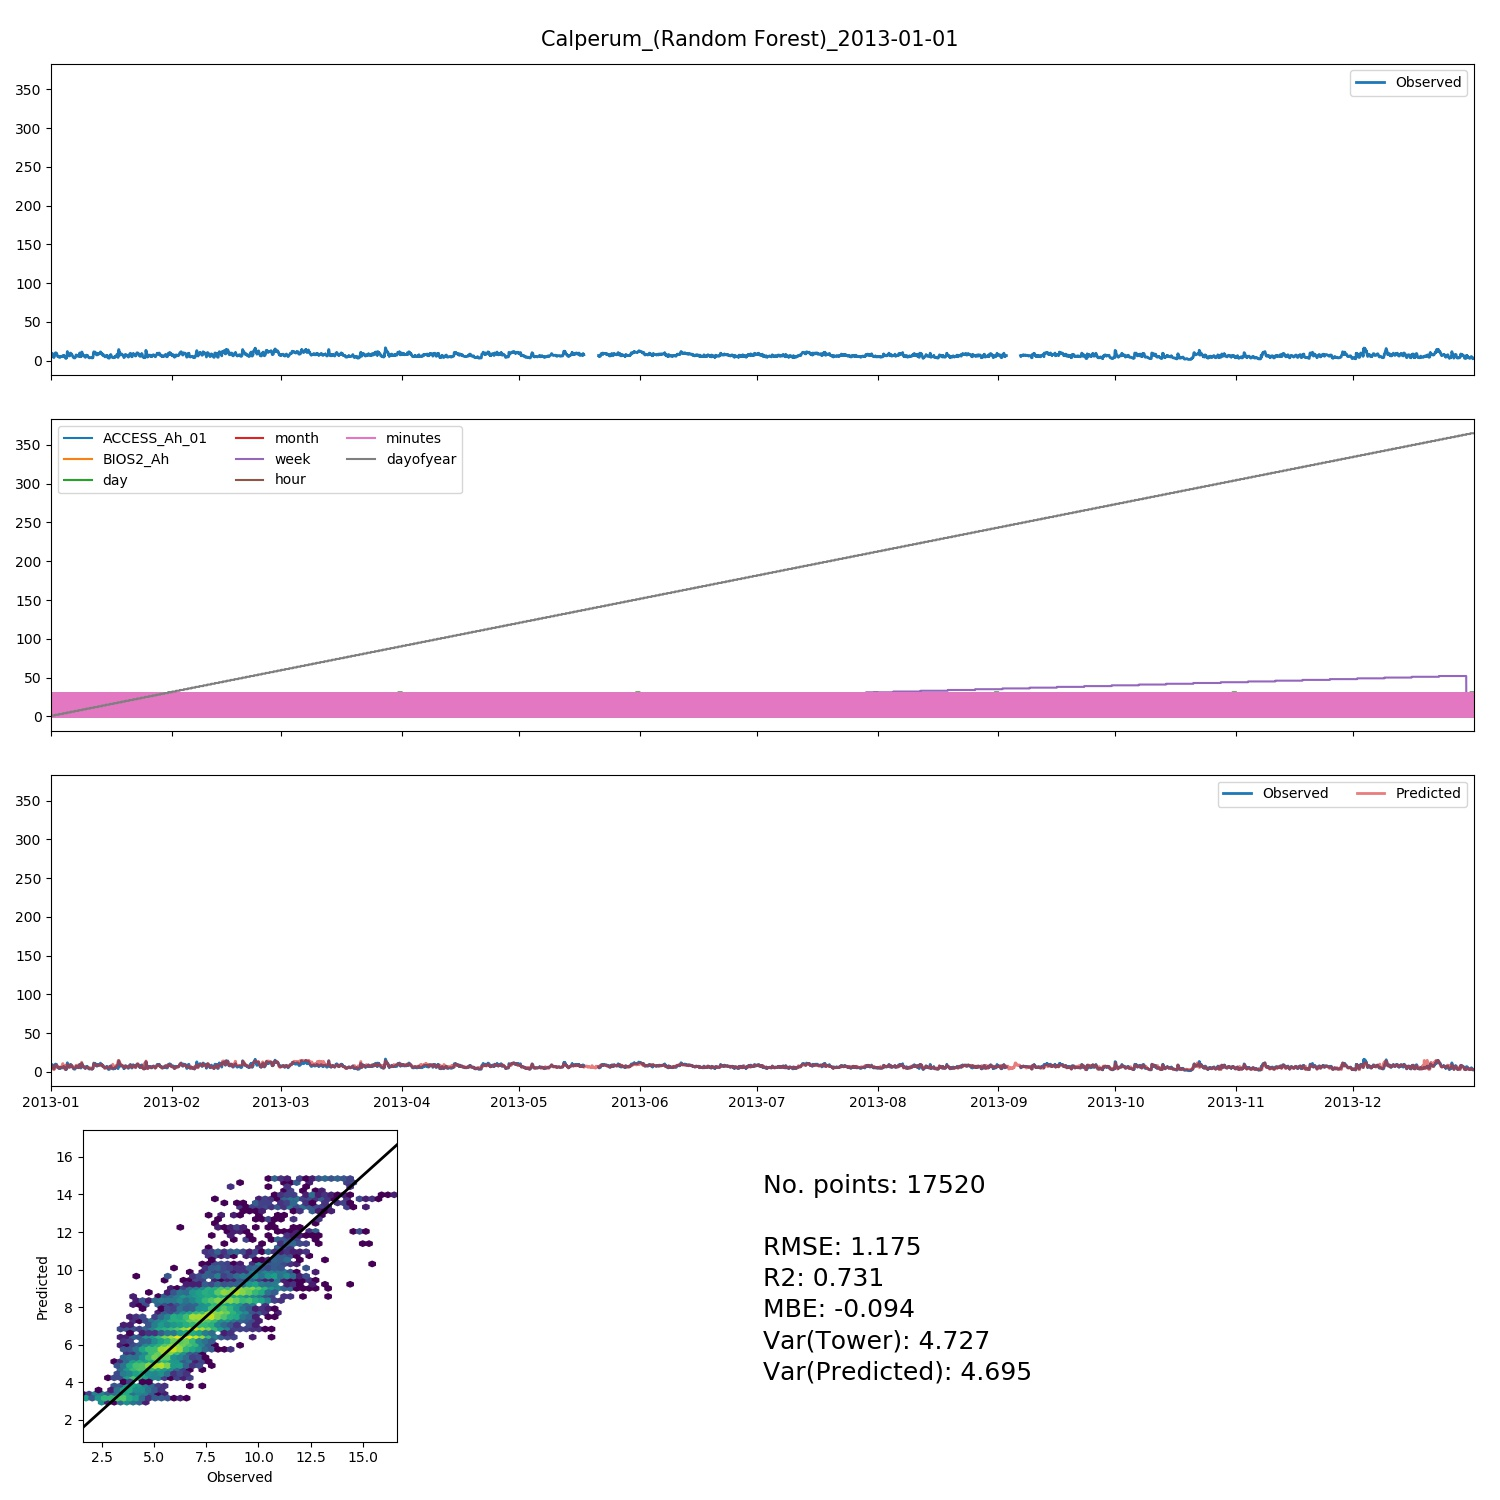
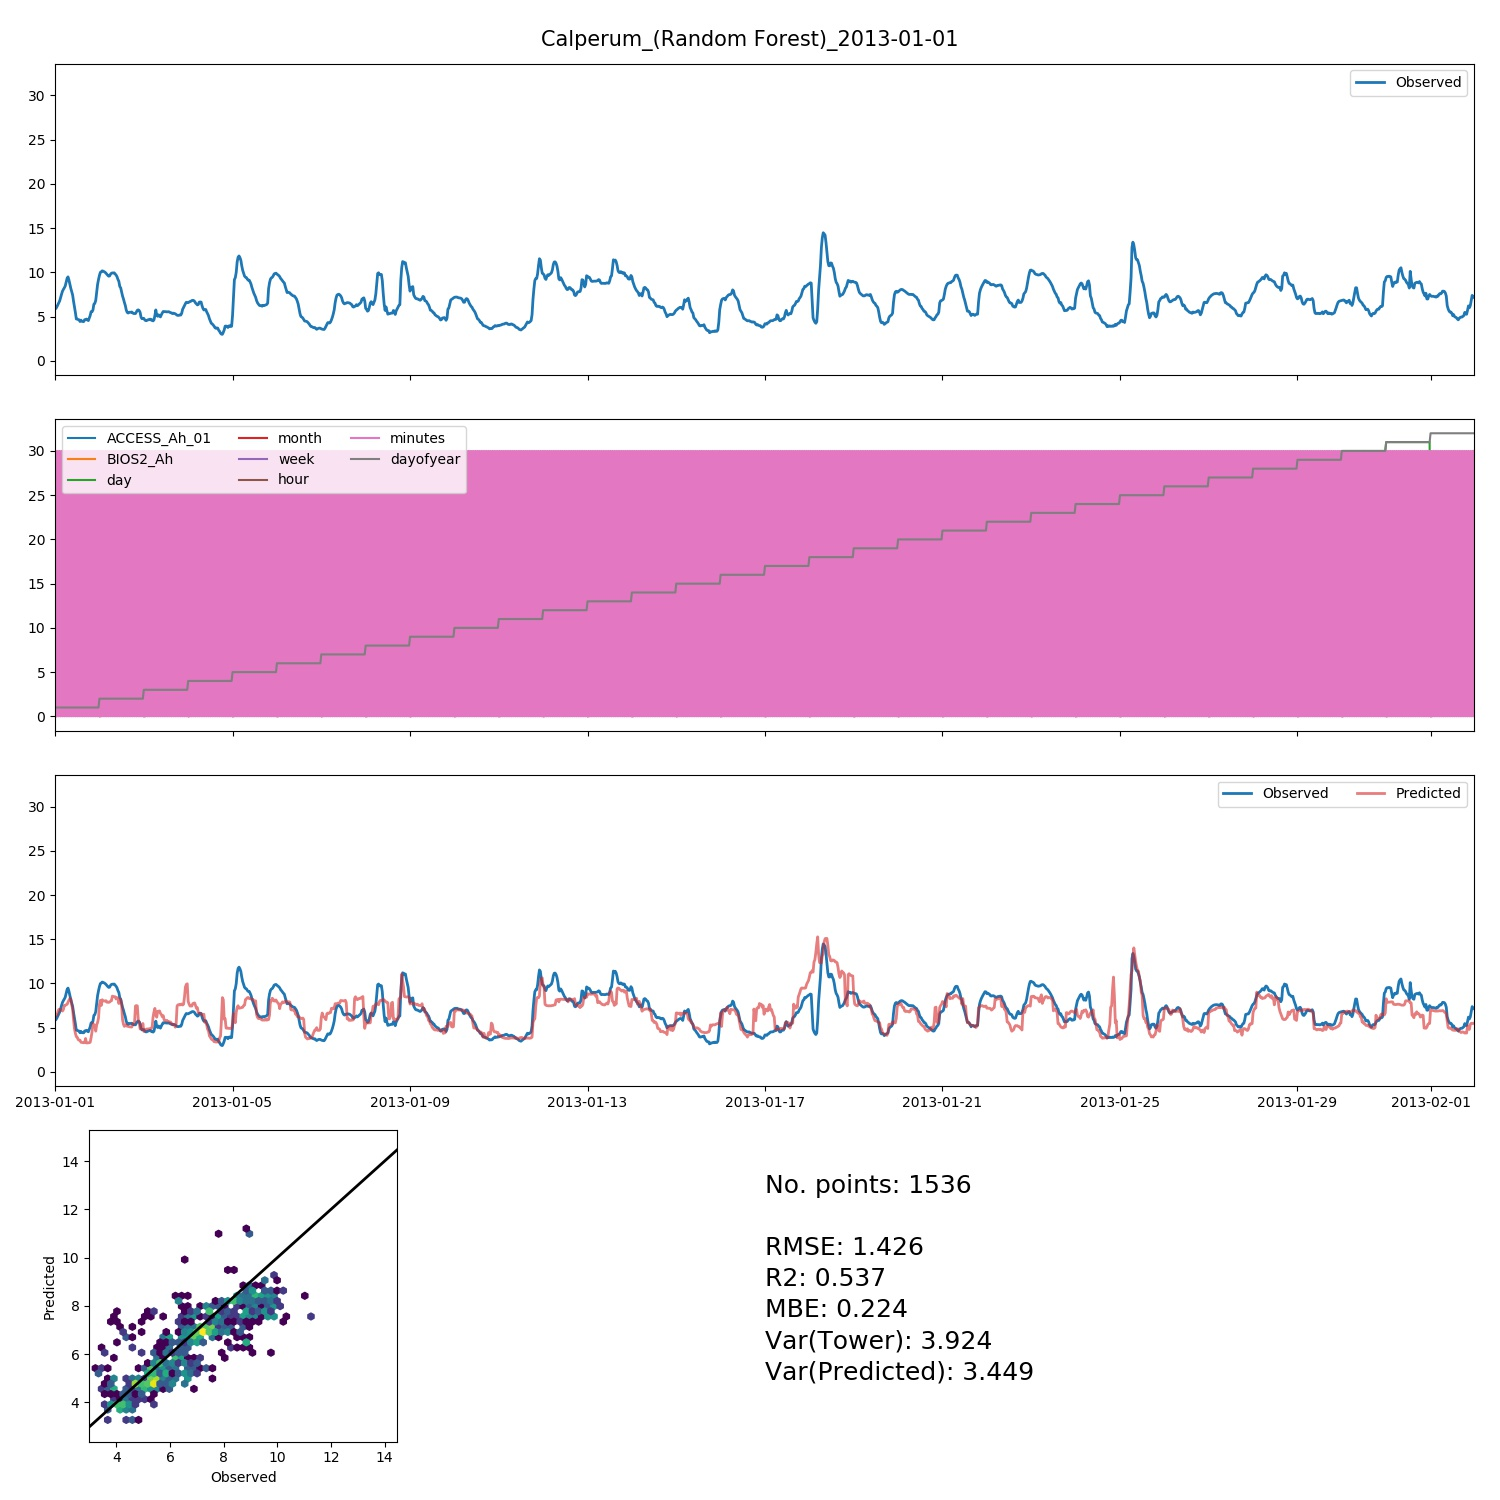
fixed taylor diagram, created overall summary stats

diff --git a/package/src/imputation/model_pipeline.py b/package/src/imputation/model_pipeline.py
@@ -4,12 +4,15 @@ from train_test_split import groups_of_train_test_set
 import model_fit
 import panel_data
 import plot_utils
+import utils
 import matplotlib.pyplot as plt
 import prophet
+import numpy as np
+
 
 class ModelPipeline(object):
-    def __init__(self, conf):
-        self.conf = conf
+    def __init__(self, configuration):
+        self.conf = configuration
         self.primary_st = self.conf.data['tower']
         
     def imputation_run(self):
@@ -20,10 +23,10 @@ class ModelPipeline(object):
         df = data_preparation.data_preprocessing(data_config, var_config)
 
         # ------ Train test split
-        test_df, train_df = groups_of_train_test_set(df, conf)
+        test_df, train_df = groups_of_train_test_set(df, self.conf)
 
         # ------ Model fitting
-        modelf = model_fit.Model_runner(conf, test_df, train_df)
+        modelf = model_fit.Model_runner(self.conf, test_df, train_df)
         modelf.iterate_over_traintest_sets()
         self.df_imputed = modelf.imputed_df
         
@@ -41,10 +44,10 @@ class ModelPipeline(object):
         df_2nd_tower = data_preparation.data_preprocessing(data_config, var_config)
         
         # ------ Train test split
-        test_df, train_df = groups_of_train_test_set(df_2nd_tower, conf)
+        test_df, train_df = groups_of_train_test_set(df_2nd_tower, self.conf)
         
         # ------ Model fitting
-        modelf = model_fit.Model_runner(conf, test_df, train_df)
+        modelf = model_fit.Model_runner(self.conf, test_df, train_df)
         modelf.iterate_over_traintest_sets()
         self.df_2nd_tower_imputed = modelf.imputed_df
 
@@ -65,7 +68,7 @@ class ModelPipeline(object):
         fb._iterate_over_train_test_sets()
 
     def taylor_diagram(self):
-        summary_df = self._read_summary_file()
+        summary_df, _ = self._read_summary_file()
 
         ttest_min_set = summary_df['Test_begin'].unique()
 
@@ -85,22 +88,77 @@ class ModelPipeline(object):
         title = self.primary_st + '_' +  ttest_min
         fn = '../../plot/' + title
 
-        plot_utils.taylor_diagram(sample,  refstd, srange, title)    
+        plot_utils.taylor_diagram(sample, refstd, srange, title)
 
         if self.conf.result['save_plots'] == True:
             plt.savefig(fn + '.jpeg')
             plt.close()
 
-        pass
-    
     def _read_summary_file(self):
         title = self.primary_st + '_%s_'%self.conf.data['yobs_file']
-        fn = '../../data_out/' + title + '_summary_stats.csv'
+        fn = '../../data_out/' + title + 'summary_stats.csv'
         full_summary = pd.read_csv(fn, parse_dates=['Test_begin', 'Test_end'])
-        
-        return full_summary
-    
-    
+        return full_summary, fn
+
+    def _read_imputed_file(self):
+        title = self.primary_st + '_%s'%self.conf.data['yobs_file']
+        fn = '../../data_out/' + title + '_imputed.csv'
+
+        tvar = self.conf.variables['tvar']
+        begin_date = self.conf.timestamps['begin_date']
+        end_date = self.conf.timestamps['end_date']
+        imputed_df = pd.read_csv(fn, parse_dates=[tvar])
+
+        imputed_df = imputed_df.loc[(imputed_df[tvar] <= end_date) &
+                                    (imputed_df[tvar] >= begin_date)]
+        return begin_date, end_date, imputed_df
+
+    def overall_rmse(self):
+        yvar = self.conf.variables['yvar']
+        tower = self.conf.data['tower']
+        yvar_tower = yvar + '_' + tower
+
+        yvar_predicted = yvar + '_predicted'
+
+        ttest_min, ttest_max, imputed_df = self._read_imputed_file()
+        solvers = self.conf.solvers
+        summaries = []
+        for asolver in solvers:
+            ytest_not_nan = imputed_df[yvar_tower].values[~imputed_df[yvar_tower].isna()]
+
+            yvar_predicted_solver = yvar_predicted + '_'+ asolver
+            ytest_predicted_not_nan = imputed_df[yvar_predicted_solver][~imputed_df[yvar_tower].isna()]
+
+            rmse, r2, mbe = utils.diagnostic_stats(ytest_not_nan, ytest_predicted_not_nan)
+            std = ytest_predicted_not_nan.std()
+            corr = np.corrcoef(ytest_not_nan, ytest_predicted_not_nan)[0, 1]
+
+            pred_stats = {'rmse': rmse, 'r2': r2, 'mbe': mbe, 'std': std, 'corr': corr}
+
+            summary = {'Solver': asolver+ '- Overall',
+                       'Best_params': {},
+                       'RMSE': pred_stats['rmse'],
+                       'R2': pred_stats['r2'],
+                       'std': pred_stats['std'],
+                       'Corr.': pred_stats['corr'],
+                       'MBE': pred_stats['mbe'],
+                       'Test_begin': ttest_min,
+                       'Test_end': ttest_max,
+                       }
+            summaries.append(summary)
+
+        summary_file_before, summary_fn = self._read_summary_file()
+        summary_for_overall_data =  pd.DataFrame(summaries)
+        summary_file_after = pd.concat([summary_file_before,
+                                        summary_for_overall_data])
+        summary_file_after.sort_values(['Test_begin', 'RMSE'], ascending=[True, True],
+                                       inplace=True)
+        summary_file_after.reset_index(drop=True, inplace=True)
+
+        if self.conf.result['save_summary']==True:
+            summary_file_after.to_csv(summary_fn, index=False)
+        return summary_file_after
+
 if __name__=="__main__":
     """
     there are two configuration files that need to be checked everytime
@@ -112,17 +170,19 @@ if __name__=="__main__":
     sys.path.insert(0, 'configs')
 
     # L3 config
-    #import driver_config as conf
+    import driver_config as confs
 
     #L4 config
-    import flux_config as conf
+    #import flux_config as conf
 
-    importlib.reload(conf)
-    p = ModelPipeline(conf)
+    importlib.reload(confs)
+    p = ModelPipeline(confs)
     p.imputation_run()
     # if conf.data['PanelData']==False:
     #      p.imputation_run_sec_tower()
     #      p.panel_data_run()
-    if conf.data['fbprophet'] == True:
-        p.fbprophet_run()
+    #if confs.data['fbprophet'] == True:
+    #    p.fbprophet_run()
+
+    #p.overall_rmse()
     p.taylor_diagram()

diff --git a/package/src/imputation/plot_utils.py b/package/src/imputation/plot_utils.py
@@ -5,10 +5,17 @@ from pandas.plotting import register_matplotlib_converters
 register_matplotlib_converters()
 
 def plot_diagnostics(t, ytest, ypred, xtest, pred_stats, title):
+
+    # Droping not required xvars from the plots
+    try:
+        xtest.drop(['month', 'week', 'hour', 'minutes', 'dayofyear', 'day'], axis=1, inplace=True)
+    except KeyError:
+        pass
+
         
     rmse, r2, mbe = pred_stats
     
-    fig = plt.figure(figsize=(15,15))
+    fig = plt.figure(figsize=(15,15), dpi=150)
     fig.suptitle(title, size=15)
 
     gs = gridspec.GridSpec(4, 3)
@@ -204,7 +211,7 @@ def taylor_diagram(samples, refstd, srange, title):
     """
     samples = [ Solvers X 3]
     """
-    fig = plt.figure(figsize=(5,5))
+    fig = plt.figure(figsize=(8,8))
     fig.suptitle(title, size=12)
 
     # Taylor diagram

diff --git a/package/src/imputation/configs/driver_config.py b/package/src/imputation/configs/driver_config.py
@@ -1,7 +1,7 @@
 # train test time-stamps
 timestamps = {'begin_date':'2013-01-01 00:00:00',
-              'end_date':'2013-12-31 23:59:59',
-              'deltat':300}
+              'end_date':'2013-02-01 23:59:59',
+              'deltat':20}
 
 # variables
 variables = {'xvar': ['ACCESS_Ah_01',
@@ -20,7 +20,7 @@ variables = {'xvar': ['ACCESS_Ah_01',
                       ], 
              'yvar': 'Ah',    # Driver name
              'tvar':'DateTime',
-             'xvar_derived': ['day', 'month', 'week', 'hour', 'minutes', 'dayofyear']
+             'xvar_derived': []#['day', 'month', 'week', 'hour', 'minutes', 'dayofyear']
             } 
 
 # data

diff --git a/package/src/imputation/model_fit.py b/package/src/imputation/model_fit.py
@@ -211,7 +211,7 @@ class Model_runner(Model_fit):
             
     def _save_summary(self):
         title = self.conf.data['tower'] + '_%s_'%self.conf.data['yobs_file']
-        fn = '../../data_out/' + title + '_summary_stats.csv'
+        fn = '../../data_out/' + title + 'summary_stats.csv'
         return fn
     
     def _save_predicted_table(self):

diff --git a/package/src/imputation/list_of_models.py b/package/src/imputation/list_of_models.py
@@ -78,6 +78,7 @@ def model(solver):
 
     elif solver=='rfr':
         parameters = {'max_depth':[5, 10, 15], 'n_estimators':[250, 500, 1000]}
+        #parameters = {'max_depth': [5], 'n_estimators': [250]}
         model = RandomForestRegressor(random_state=42)
 
     else:
